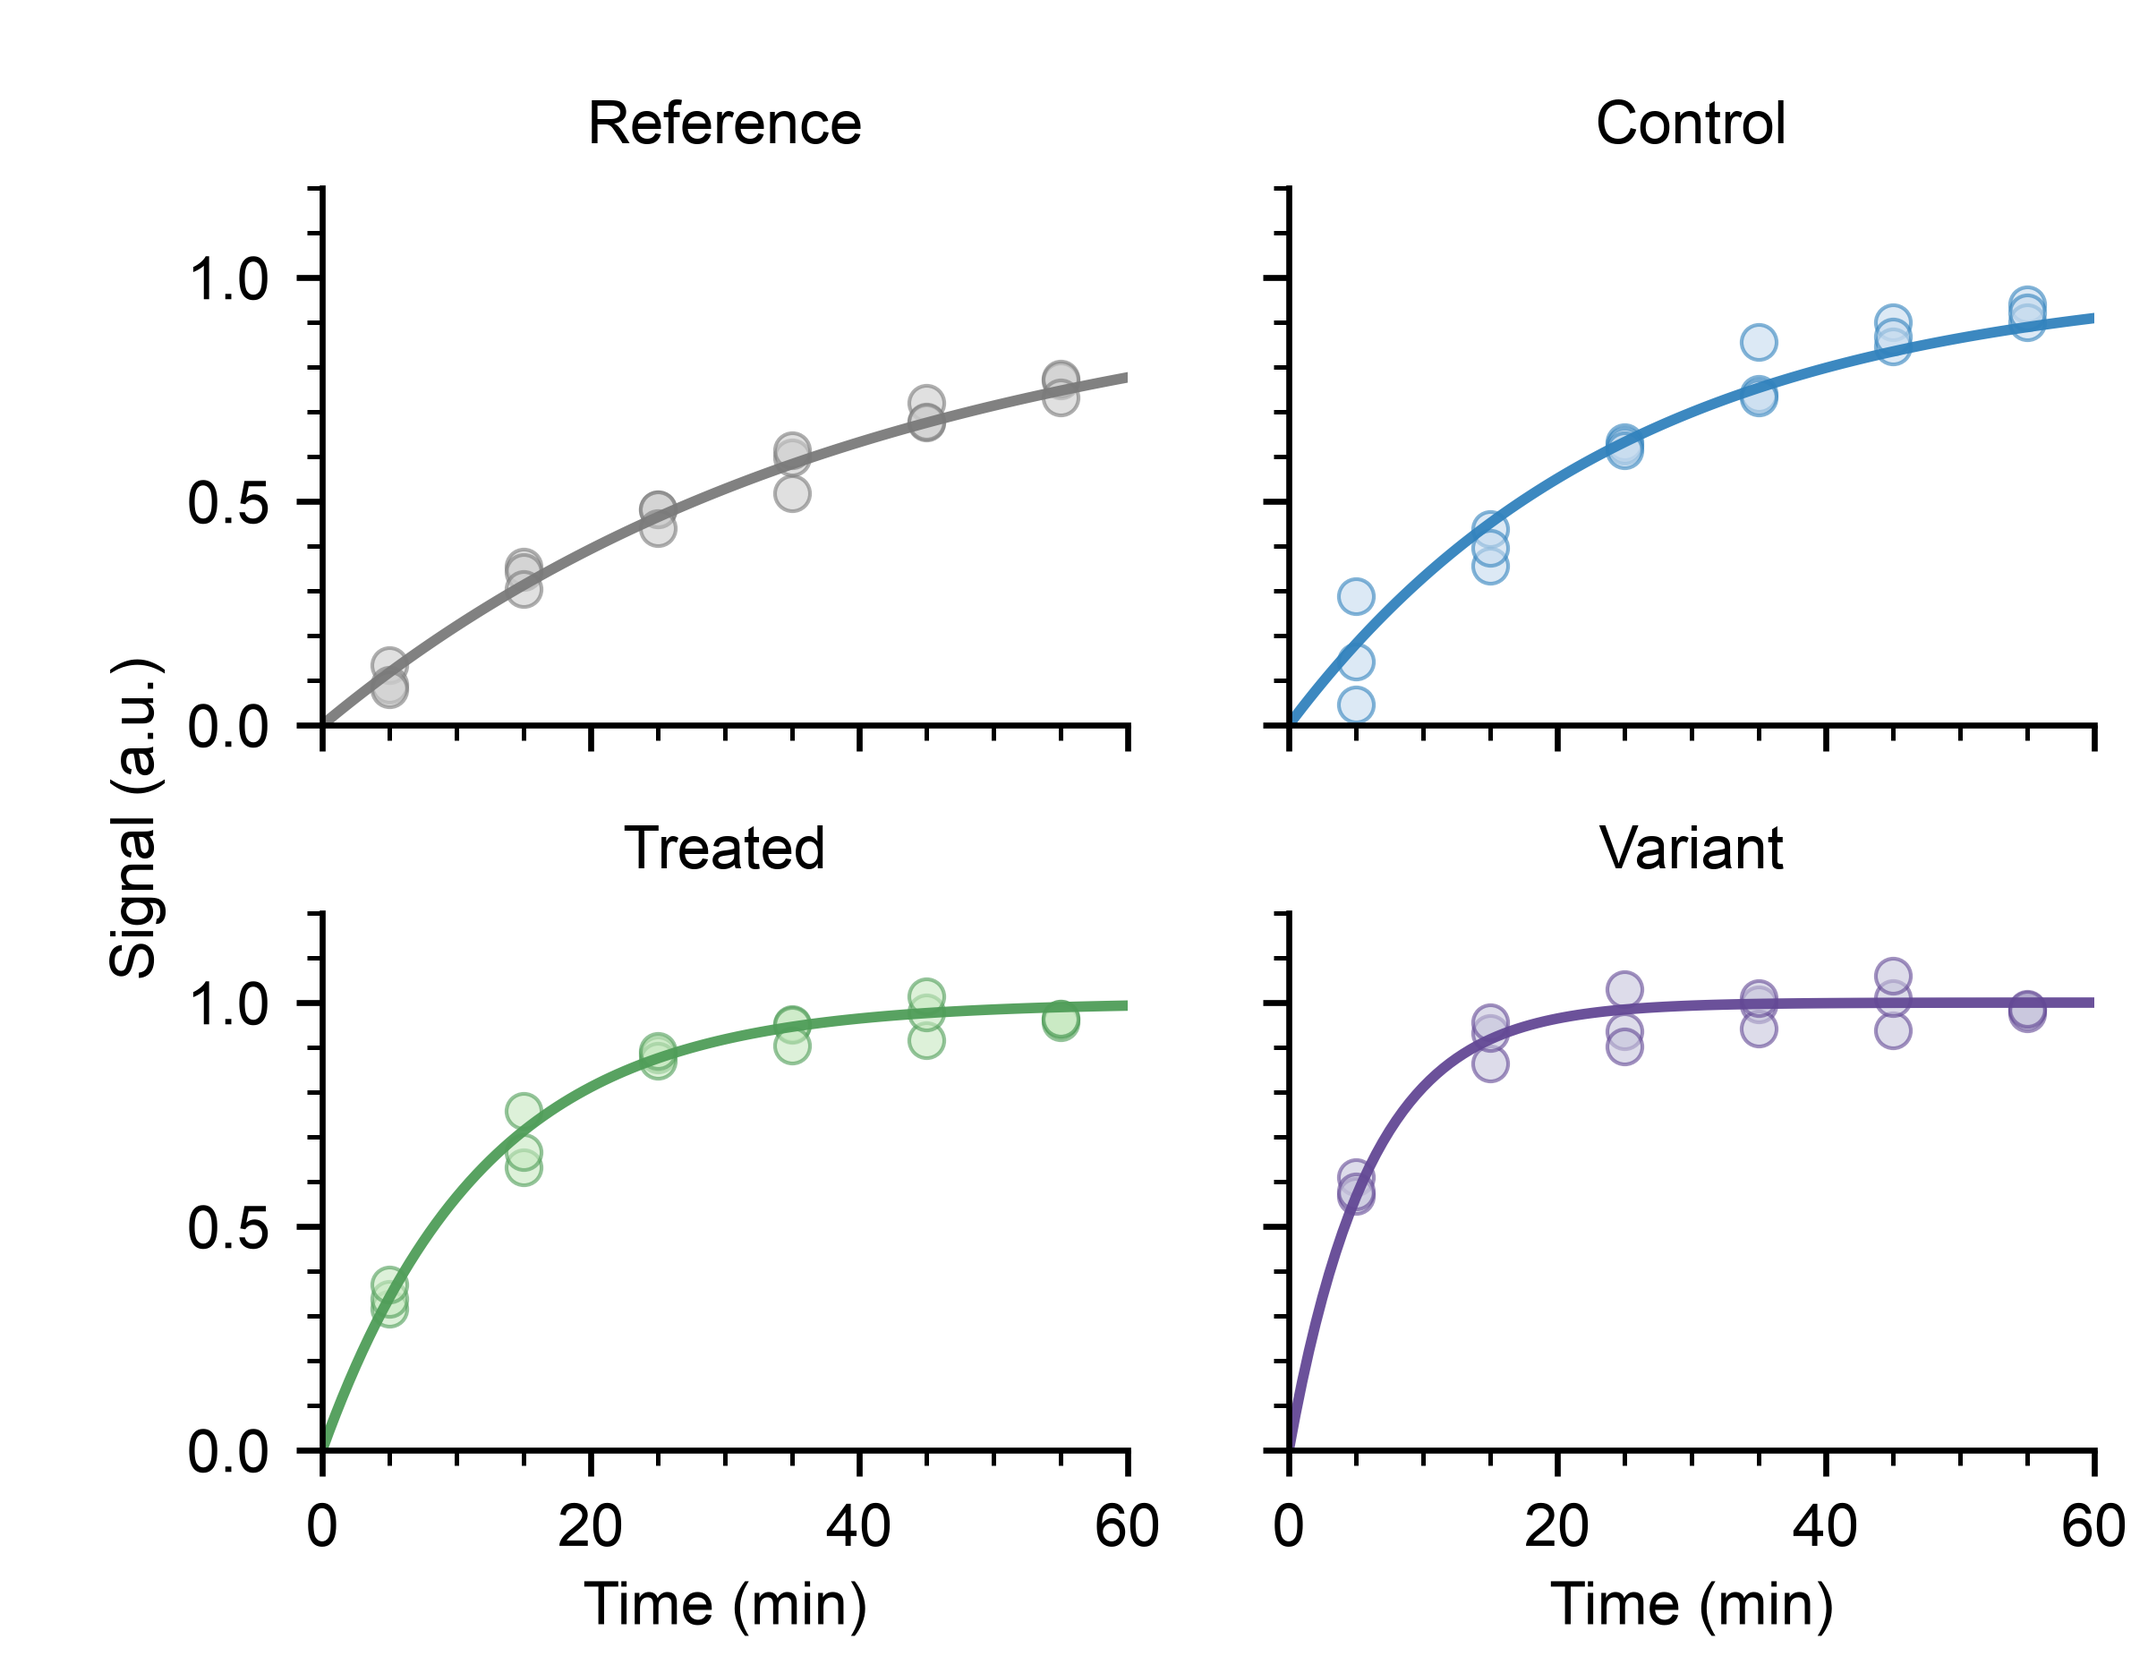
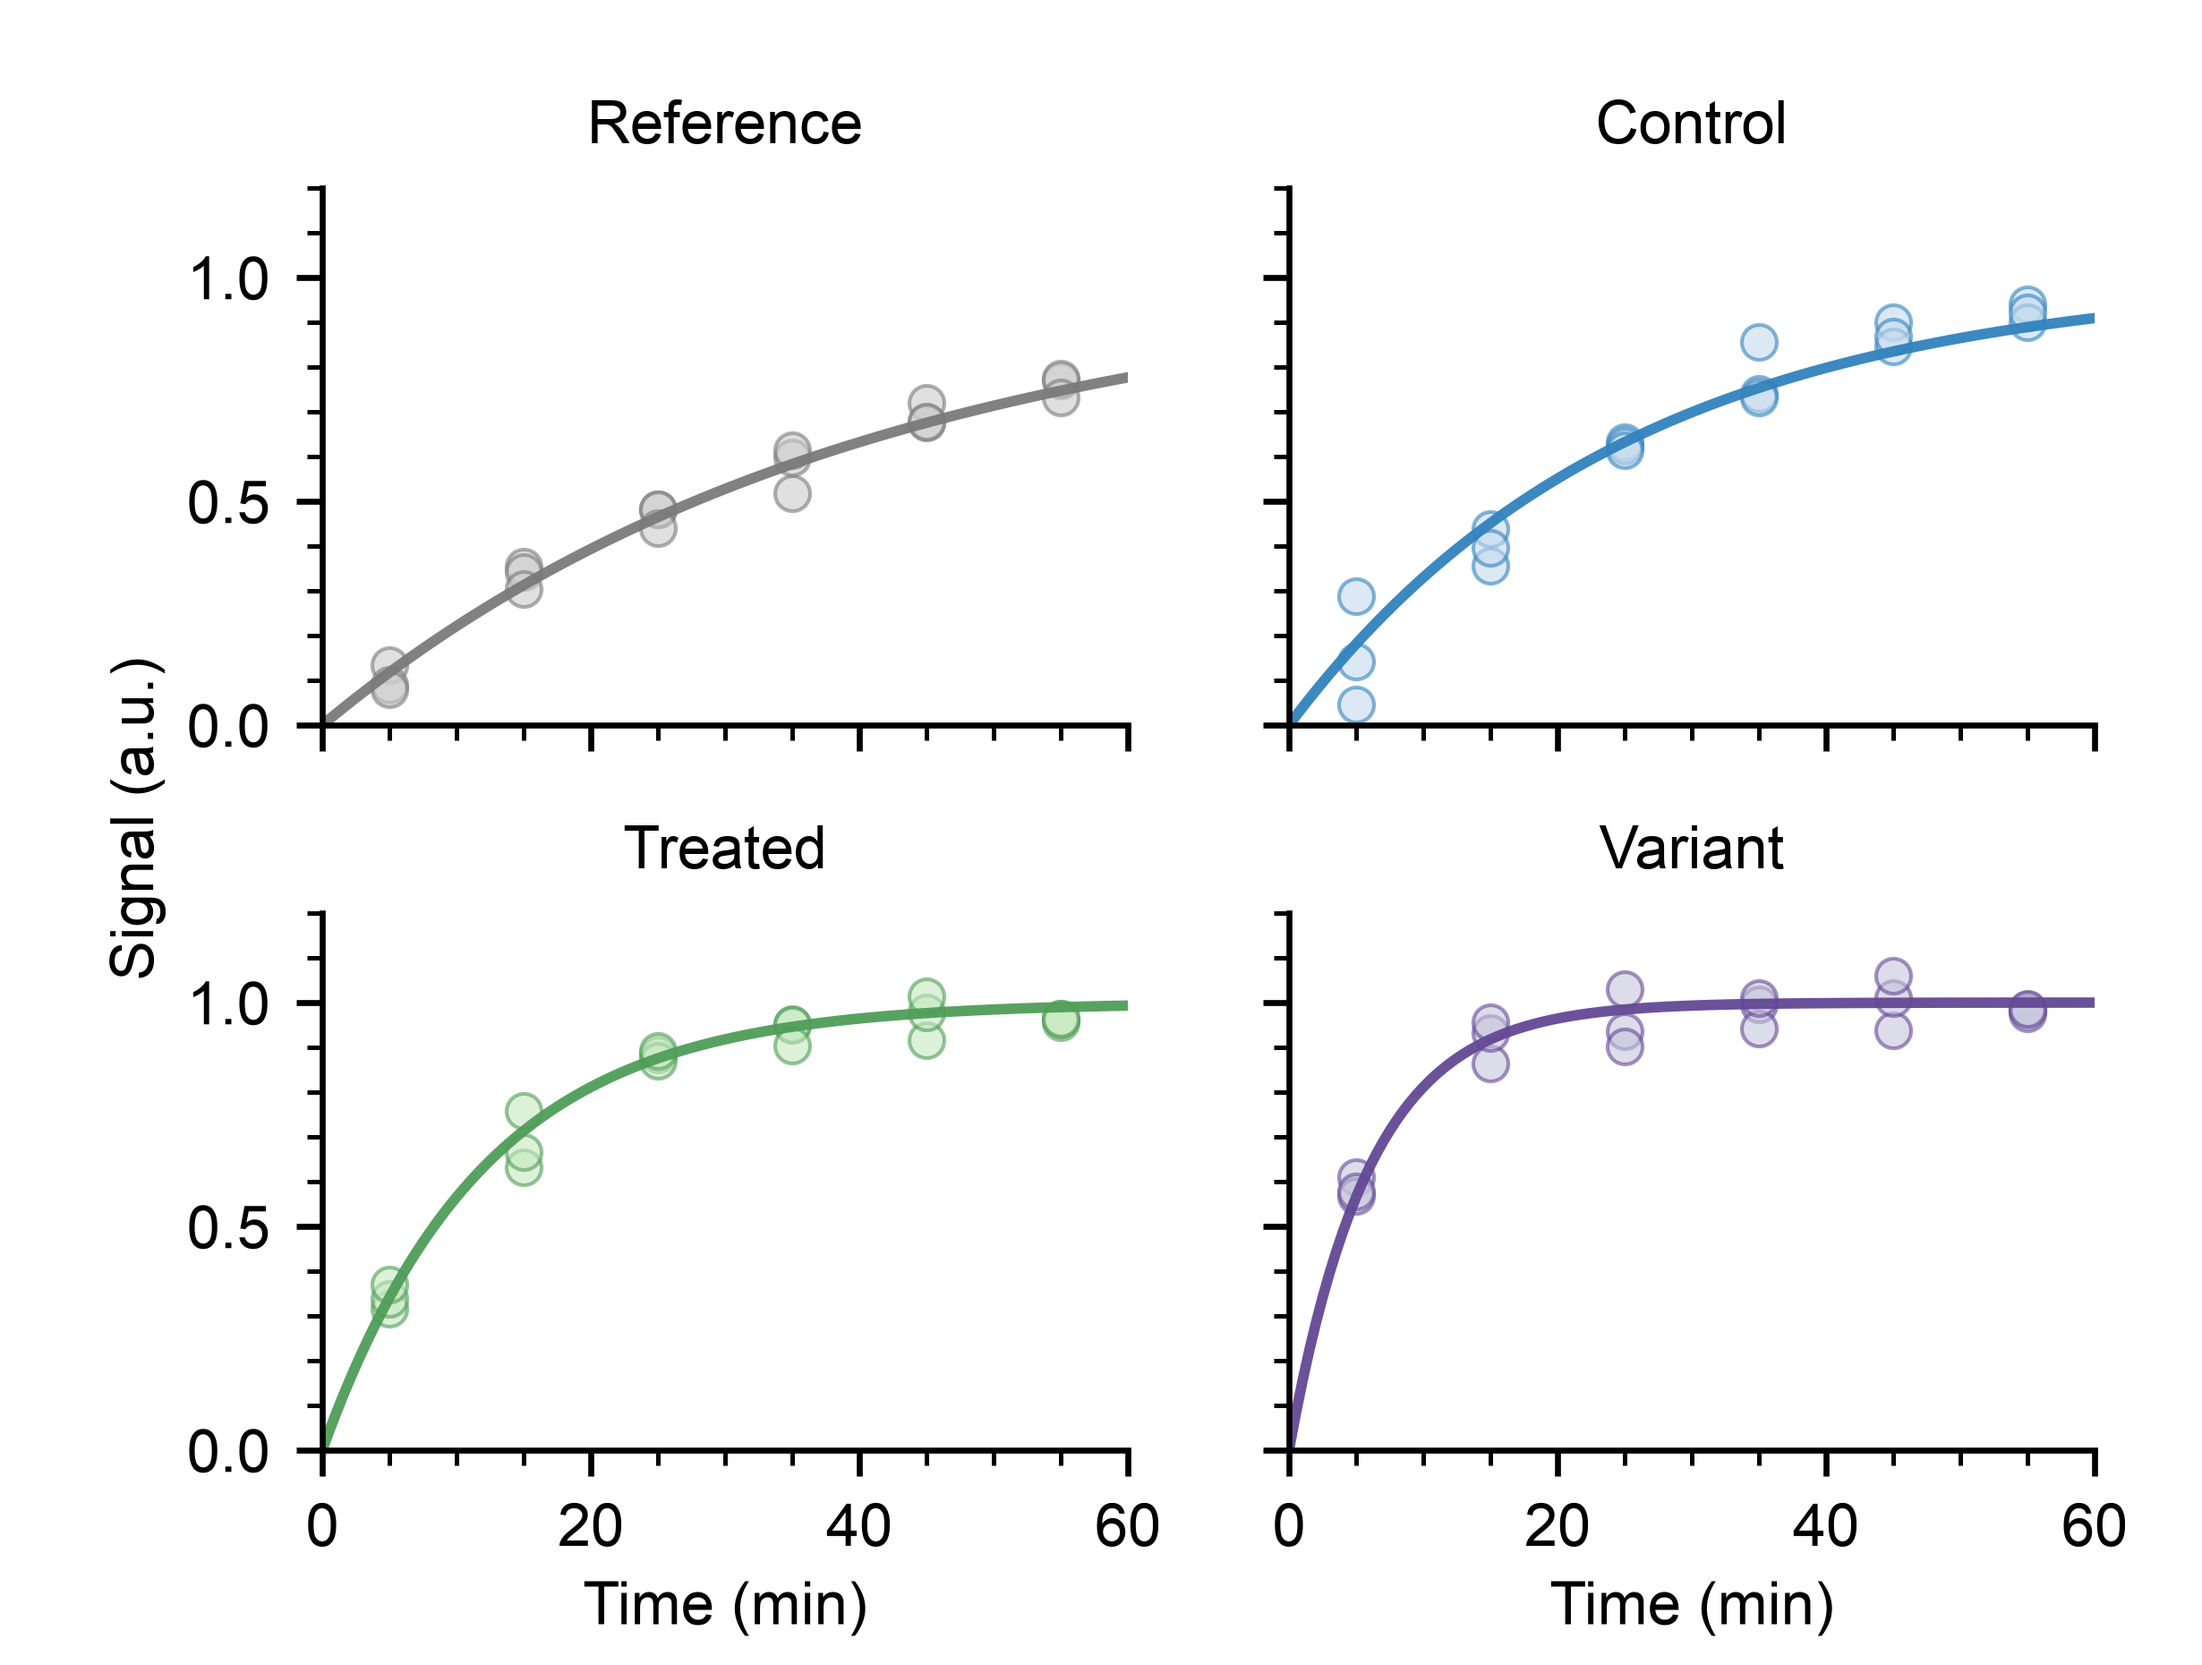
fix(layout): widen the default right margin of grid_inches to 0.2 in
A tick at the end of the x-axis, which round_numbers always places, has a label that
overhangs the axes by half its width. The 0.1 in margin held three characters of 8 pt
text, so a label such as 1.25 or 2500 crossed the canvas edge and check_figure reported
off-canvas for a figure built from the defaults. 0.2 in holds six characters.

diff --git a/tests/test_layout.py b/tests/test_layout.py
@@ -9,6 +9,7 @@ from matplotlib.legend import Legend
 from matplotlib.transforms import Bbox
 
 from mplplots import layout, utils
+from mplplots.check import check_figure
 from mplplots.layout import (
     COLUMN_WIDTHS,
     add_shared_ylabel,
@@ -16,6 +17,7 @@ from mplplots.layout import (
     figure_size,
     grid_inches,
 )
+from mplplots.styles import context
 
 
 def inches(ax: Axes) -> tuple[float, float, float, float]:
@@ -60,10 +62,20 @@ def test_figure_size_rejects(kwargs: dict[str, object]) -> None:
 
 def test_grid_inches_geometry() -> None:
     fig, axes = grid_inches(2, 3, width=2.0, height=1.5)
-    assert tuple(fig.get_size_inches()) == pytest.approx((7.9, 4.0))
+    assert tuple(fig.get_size_inches()) == pytest.approx((8.0, 4.0))
     assert len(axes) == 6
     assert inches(axes[0]) == pytest.approx((0.6, 2.4, 2.0, 1.5))
     assert inches(axes[5]) == pytest.approx((5.8, 0.4, 2.0, 1.5))
+
+
+@pytest.mark.parametrize("upper", [1.25, 2500.0, 100000.0])
+def test_grid_inches_default_margins_hold_the_last_tick_label(upper: float) -> None:
+    # round_numbers puts a tick at the end of each axis, so its label overhangs the axes by
+    # half its width: up to six characters of 8 pt text fit in the default right margin.
+    with context():
+        fig, (ax,) = grid_inches(width=2.0, height=1.5)
+        ax.set_xlim(0.0, upper)
+        assert [issue for issue in check_figure(fig) if issue.rule == "off-canvas"] == []
 
 
 def test_grid_inches_single_panel_with_margins() -> None:
@@ -74,7 +86,7 @@ def test_grid_inches_single_panel_with_margins() -> None:
 
 def test_grid_inches_per_row_and_per_column_sizes() -> None:
     fig, axes = grid_inches(2, 2, width=[2.0, 1.0], height=[0.8, 1.6], wspace=0.5, hspace=0.2)
-    assert tuple(fig.get_size_inches()) == pytest.approx((4.2, 3.1))
+    assert tuple(fig.get_size_inches()) == pytest.approx((4.3, 3.1))
     assert inches(axes[0]) == pytest.approx((0.6, 2.2, 2.0, 0.8))
     assert inches(axes[3]) == pytest.approx((3.1, 0.4, 1.0, 1.6))
 
@@ -208,7 +220,7 @@ def test_grid_inches_orders_axes_row_major_from_the_top() -> None:
 
 def test_grid_inches_takes_per_gap_spaces() -> None:
     fig, axes = grid_inches(3, 3, width=1.0, height=1.0, wspace=[0.25, 0.5], hspace=[0.1, 0.2])
-    assert tuple(fig.get_size_inches()) == pytest.approx((4.45, 3.8))
+    assert tuple(fig.get_size_inches()) == pytest.approx((4.55, 3.8))
     assert [inches(ax)[0] for ax in axes[:3]] == pytest.approx([0.6, 1.85, 3.35])
     assert [inches(ax)[1] for ax in axes[::3]] == pytest.approx([2.7, 1.6, 0.4])
 
@@ -217,7 +229,7 @@ def test_grid_inches_figure_is_whole_pixels_at_600_dpi() -> None:
     # 0.6 + 2 + 2 + 2 + 0.6 + 0.6 + 0.1 summed left to right is 7.899999999999999 in, which
     # Agg truncates to 4739 px at 600 dpi. Matplotlib 3.10 and later tolerate 1e-8 px in
     # get_width_height and 3.8 does not, so the exact size is checked as well.
-    fig, _ = grid_inches(2, 3, width=2.0, height=1.5)
+    fig, _ = grid_inches(2, 3, width=2.0, height=1.5, right=0.1)
     assert tuple(float(size) for size in fig.get_size_inches()) == (7.9, 4.0)
     fig.set_dpi(600)
     assert fig.canvas.get_width_height() == (4740, 2400)

diff --git a/src/mplplots/layout.py b/src/mplplots/layout.py
@@ -107,7 +107,7 @@ def grid_inches(
     width: float | Sequence[float],
     height: float | Sequence[float],
     left: float = 0.6,
-    right: float = 0.1,
+    right: float = 0.2,
     top: float = 0.1,
     bottom: float = 0.4,
     wspace: float | Sequence[float] = 0.6,
@@ -135,6 +135,8 @@ def grid_inches(
             every row.
         left: Distance from the figure's left edge to the first column's y-axis, in inches.
         right: Distance from the last column's right edge to the figure's right edge, in inches.
+            The default holds the label of a tick at the end of the x-axis, which overhangs the
+            axes by half its width, up to six characters of 8 pt text.
         top: Distance from the figure's top edge to the first row's top edge, in inches.
         bottom: Distance from the last row's x-axis to the figure's bottom edge, in inches.
         wspace: Gap between adjacent columns, in inches: one number for every gap, or
@@ -156,11 +158,11 @@ def grid_inches(
 
     Examples:
         Three stacked panels sharing a 5.1 in x-axis, each with a 0.8 in y-axis and 0.2 in
-        between, in a 5.8 by 3.3 in figure:
+        between, in a 5.9 by 3.3 in figure:
 
         >>> fig, axes = grid_inches(3, 1, width=5.1, height=0.8, hspace=0.2, sharex=True)
         >>> tuple(float(size) for size in fig.get_size_inches())
-        (5.8, 3.3)
+        (5.9, 3.3)
     """
     if nrows < 1 or ncols < 1:
         raise ValueError(f"nrows and ncols must be at least 1, got {nrows} and {ncols}")

diff --git a/README.md b/README.md
@@ -41,7 +41,7 @@ TREATED = mpp.ColorPair(fill="#c7e9c0", edge="#4f9d58")  # one role of a project
 t = np.linspace(0, 10, 101)
 mean, sem = 1 - np.exp(-t / 2), np.full_like(t, 0.05)
 
-fig, (ax,) = mpp.grid_inches(width=2.5, height=1.5)  # 2.5 × 1.5 in axes in a 3.2 × 2 in figure
+fig, (ax,) = mpp.grid_inches(width=2.5, height=1.5)  # 2.5 × 1.5 in axes in a 3.3 × 2 in figure
 mpp.plot_mean_sem(ax, t, mean, sem, fill=TREATED.fill, edge=TREATED.edge, label="Treated")
 ax.set(xlim=(0, 10), ylim=(0, 1.2), xlabel="Time (s)", ylabel="Signal (a.u.)")
 ax.legend()
@@ -50,7 +50,7 @@ mpp.assert_figure(fig)  # raises StyleError if the figure breaks a rule of the s
 mpp.save_figure(fig, "figures/signal", caption="Mean of n = 6 replicates; the band is 1 SEM.")
 ```
 
-`save_figure` writes `figures/signal.png` (600 dpi), `.pdf` and `.svg`, each exactly 3.2 × 2 in,
+`save_figure` writes `figures/signal.png` (600 dpi), `.pdf` and `.svg`, each exactly 3.3 × 2 in,
 and the caption draft `figures/signal_caption.txt`. The functions and constants of the styles and
 the toolkit are all importable from the top-level package, as `mpp.<name>`; the palettes live in
 `mplplots.palettes`.
@@ -419,7 +419,7 @@ import mplplots as mpp
 mpp.use()
 
 # Three stacked panels with 2.5 × 0.8 in axes, 0.2 in apart and sharing both axes:
-# a 3.2 × 3.3 in figure.
+# a 3.3 × 3.3 in figure.
 fig, axes = mpp.grid_inches(3, 1, width=2.5, height=0.8, hspace=0.2, sharex=True, sharey=True)
 t = np.linspace(0, 10, 201)
 series = [("Slow", 1, "#7a7a7a"), ("Intermediate", 2, "#4f9d58"), ("Fast", 4, "#3182bd")]
@@ -432,7 +432,7 @@ mpp.add_shared_ylabel(fig, axes, "Signal (a.u.)")
 mpp.align_legends_left(axes)  # the three legends start at the same x
 ```
 
-- `grid_inches(nrows=1, ncols=1, *, width, height, left=0.6, right=0.1, top=0.1, bottom=0.4,
+- `grid_inches(nrows=1, ncols=1, *, width, height, left=0.6, right=0.2, top=0.1, bottom=0.4,
   wspace=0.6, hspace=0.5, sharex=False, sharey=False, **figure_kwargs)` returns the figure and its
   axes as a flat list, top row first. `width` is the x-axis length of each column and `height` the
   y-axis length of each row; a number applies to all, a sequence gives one per column or row, and
@@ -609,14 +609,14 @@ Personal image at the top of this README. Every figure passes `assert_figure`:
 <table>
   <tr>
     <td><img src="examples/personal_mean_sem.png" alt="Mean and SEM bands with a dashed second state and a threshold line" width="450"></td>
-    <td><img src="examples/personal_distribution.png" alt="Two binned distributions as filled curves" width="320"></td>
+    <td><img src="examples/personal_distribution.png" alt="Two binned distributions as filled curves" width="330"></td>
   </tr>
   <tr>
     <td><code>plot_mean_sem</code> bands, a second state in <code>SECONDARY_LINESTYLE</code>, and a <code>REFERENCE_LINE</code> threshold</td>
     <td><code>plot_distribution</code> curves with their legend proxies</td>
   </tr>
   <tr>
-    <td><img src="examples/personal_grid.png" alt="A 2 by 2 grid of panels with replicate dots and fitted curves" width="400"></td>
+    <td><img src="examples/personal_grid.png" alt="A 2 by 2 grid of panels with replicate dots and fitted curves" width="410"></td>
     <td><img src="examples/personal_bars.png" alt="Grouped bars with replicate dots, confidence intervals, and significance stars" width="360"></td>
   </tr>
   <tr>

diff --git a/src/mplplots/data/skills/mplplots/references/style-guide.md b/src/mplplots/data/skills/mplplots/references/style-guide.md
@@ -181,9 +181,11 @@ lighter_edge = mpp.lighten(GREEN.edge, 0.3)  # a further member of the green fam
 - **S4.** Figures meant to be read against each other keep the same physical data scale, data
   units per inch, even when they show different windows.
 - **S5.** Margins for 8 pt text: 0.6 in on the left for tick labels and a y label, 0.4 in below,
-  0.1 in on the top and right, 0.35 in above for a title; `grid_inches` defaults to them, with
-  `top=0.35` passed for a title. Stacked panels that share x need a 0.05 to 0.2 in gap; panels
-  with their own tick labels need at least 0.22 in, which is 0.25 in on the grid.
+  0.1 in on top (0.35 in above for a title) and 0.2 in on the right, where the label of the
+  tick at the end of the x-axis overhangs the axes by half its width; 0.1 in is enough there
+  for a label of up to three characters. `grid_inches` defaults to them, with `top=0.35` passed
+  for a title. Stacked panels that share x need a 0.05 to 0.2 in gap; panels with their own
+  tick labels need at least 0.22 in, which is 0.25 in on the grid.
 - **S6.** No panel letters in the figure. They are added when the manuscript is assembled, in
   the journal's style, and captions refer to panels by position ("top", "left to right").
 - **S7.** A shared x label is the bottom panel's `set_xlabel`, never `supxlabel`, which pins the
